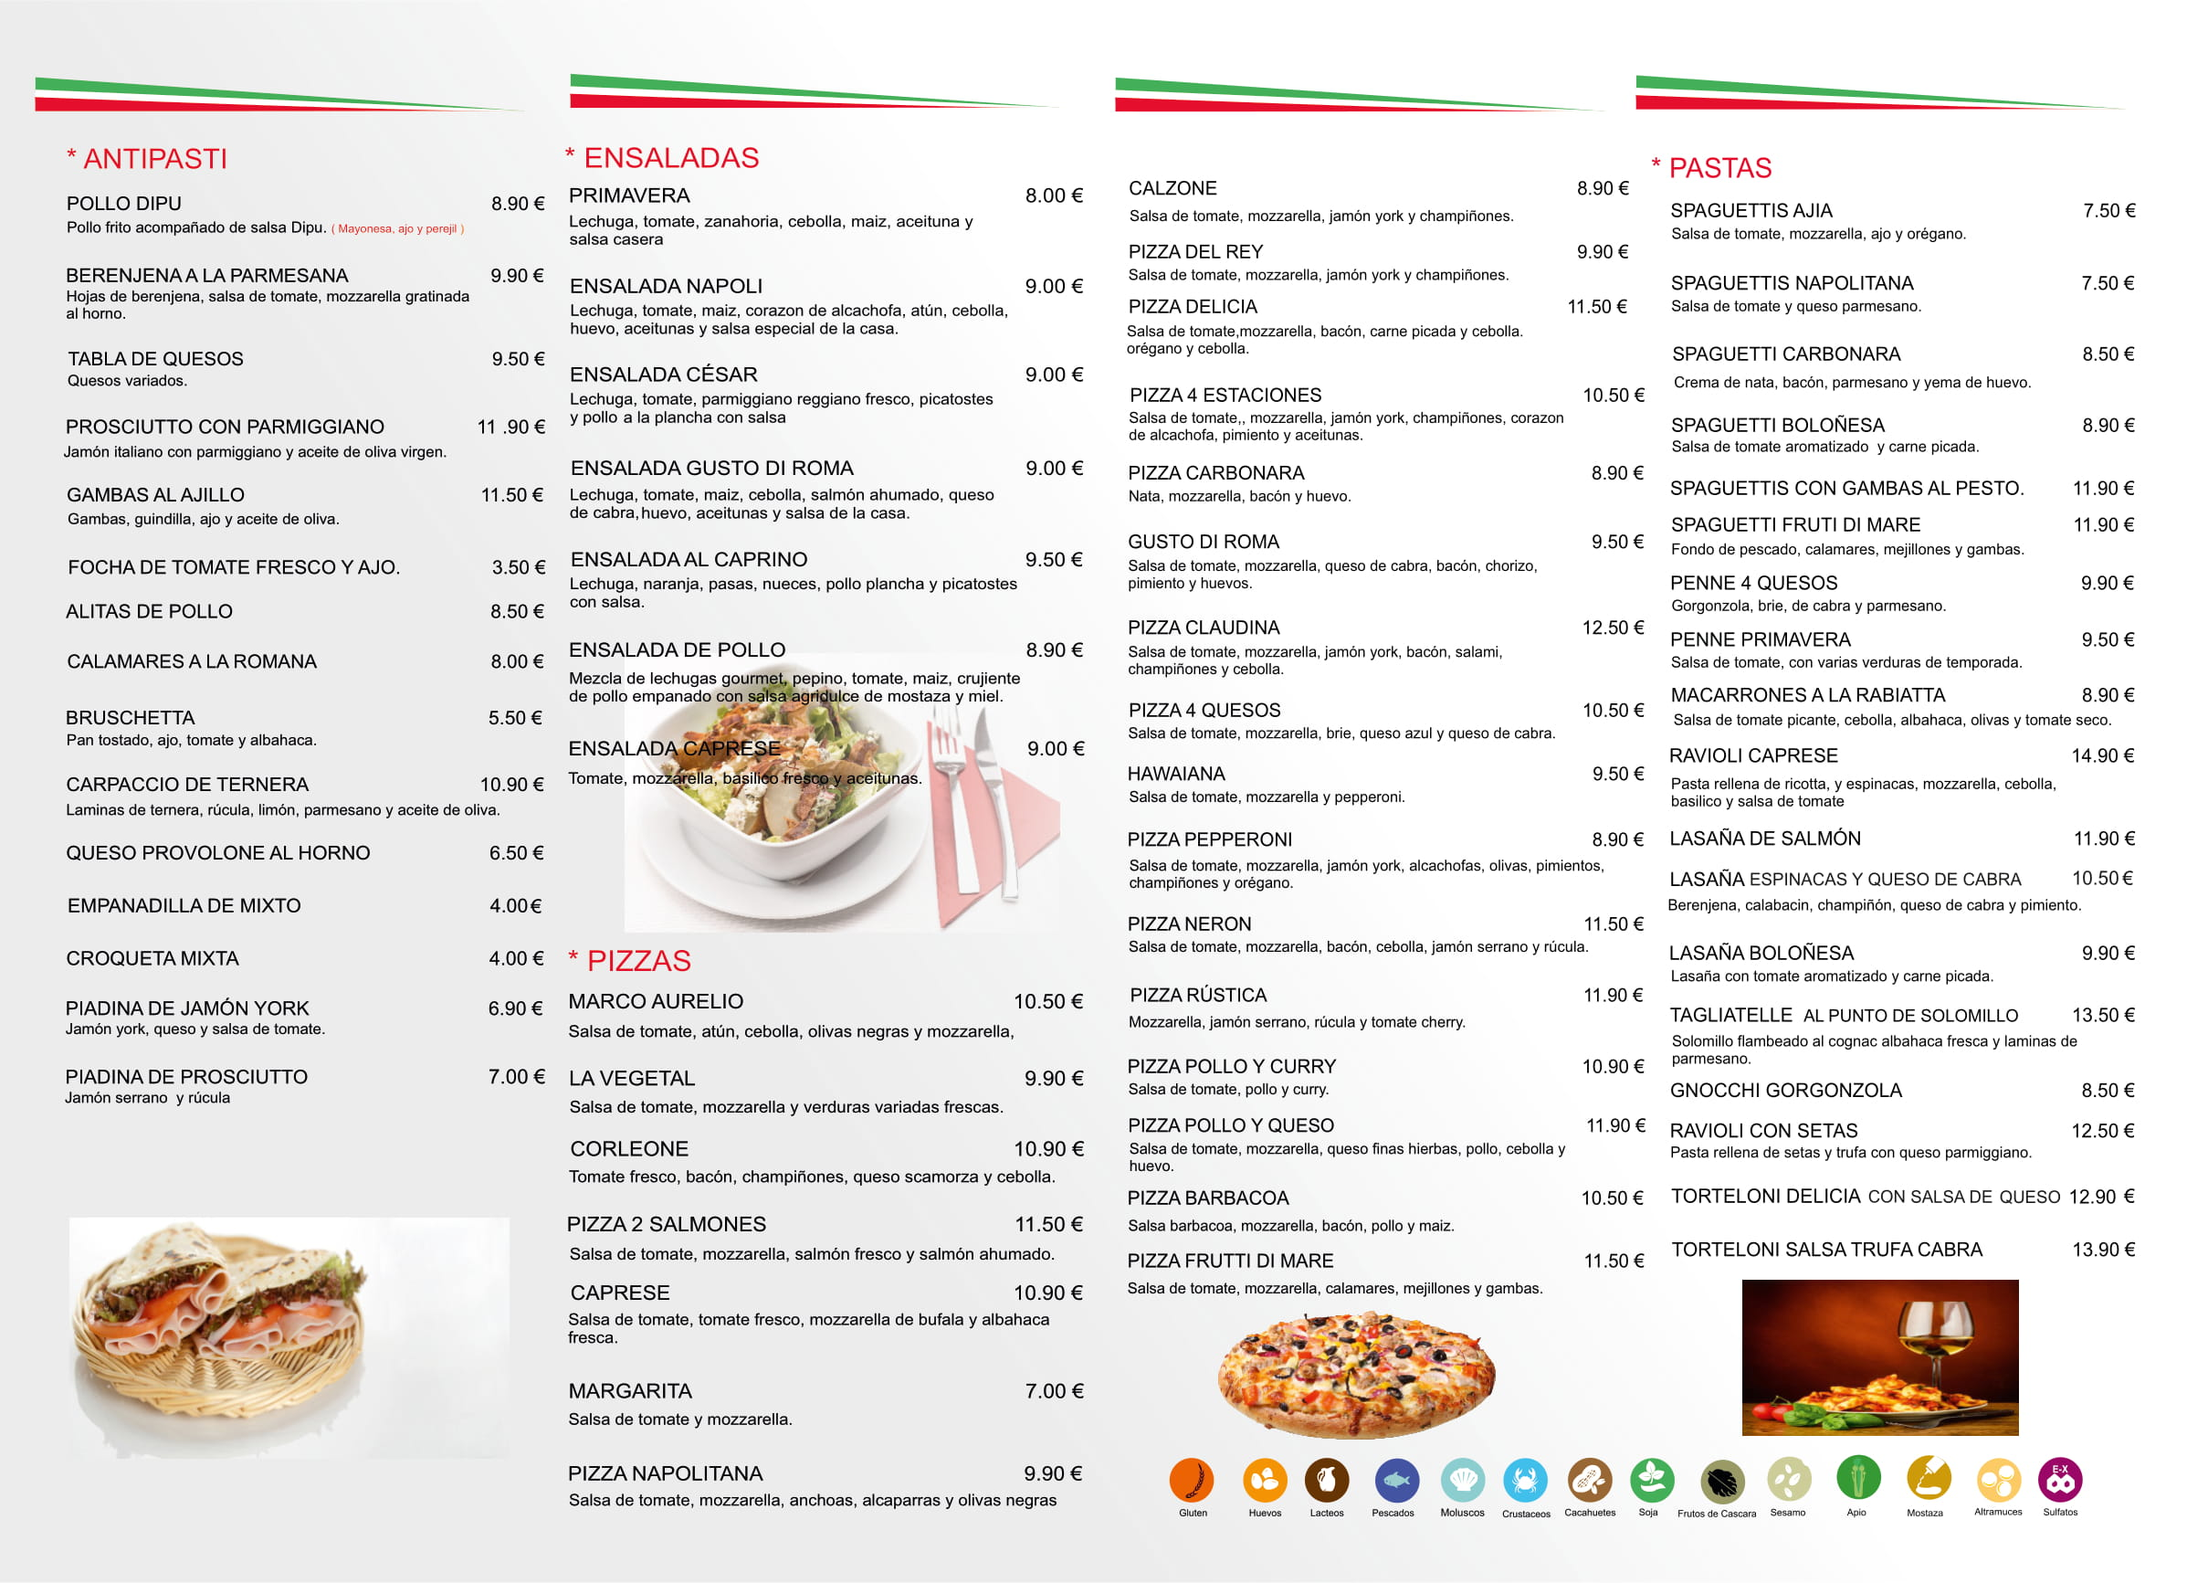
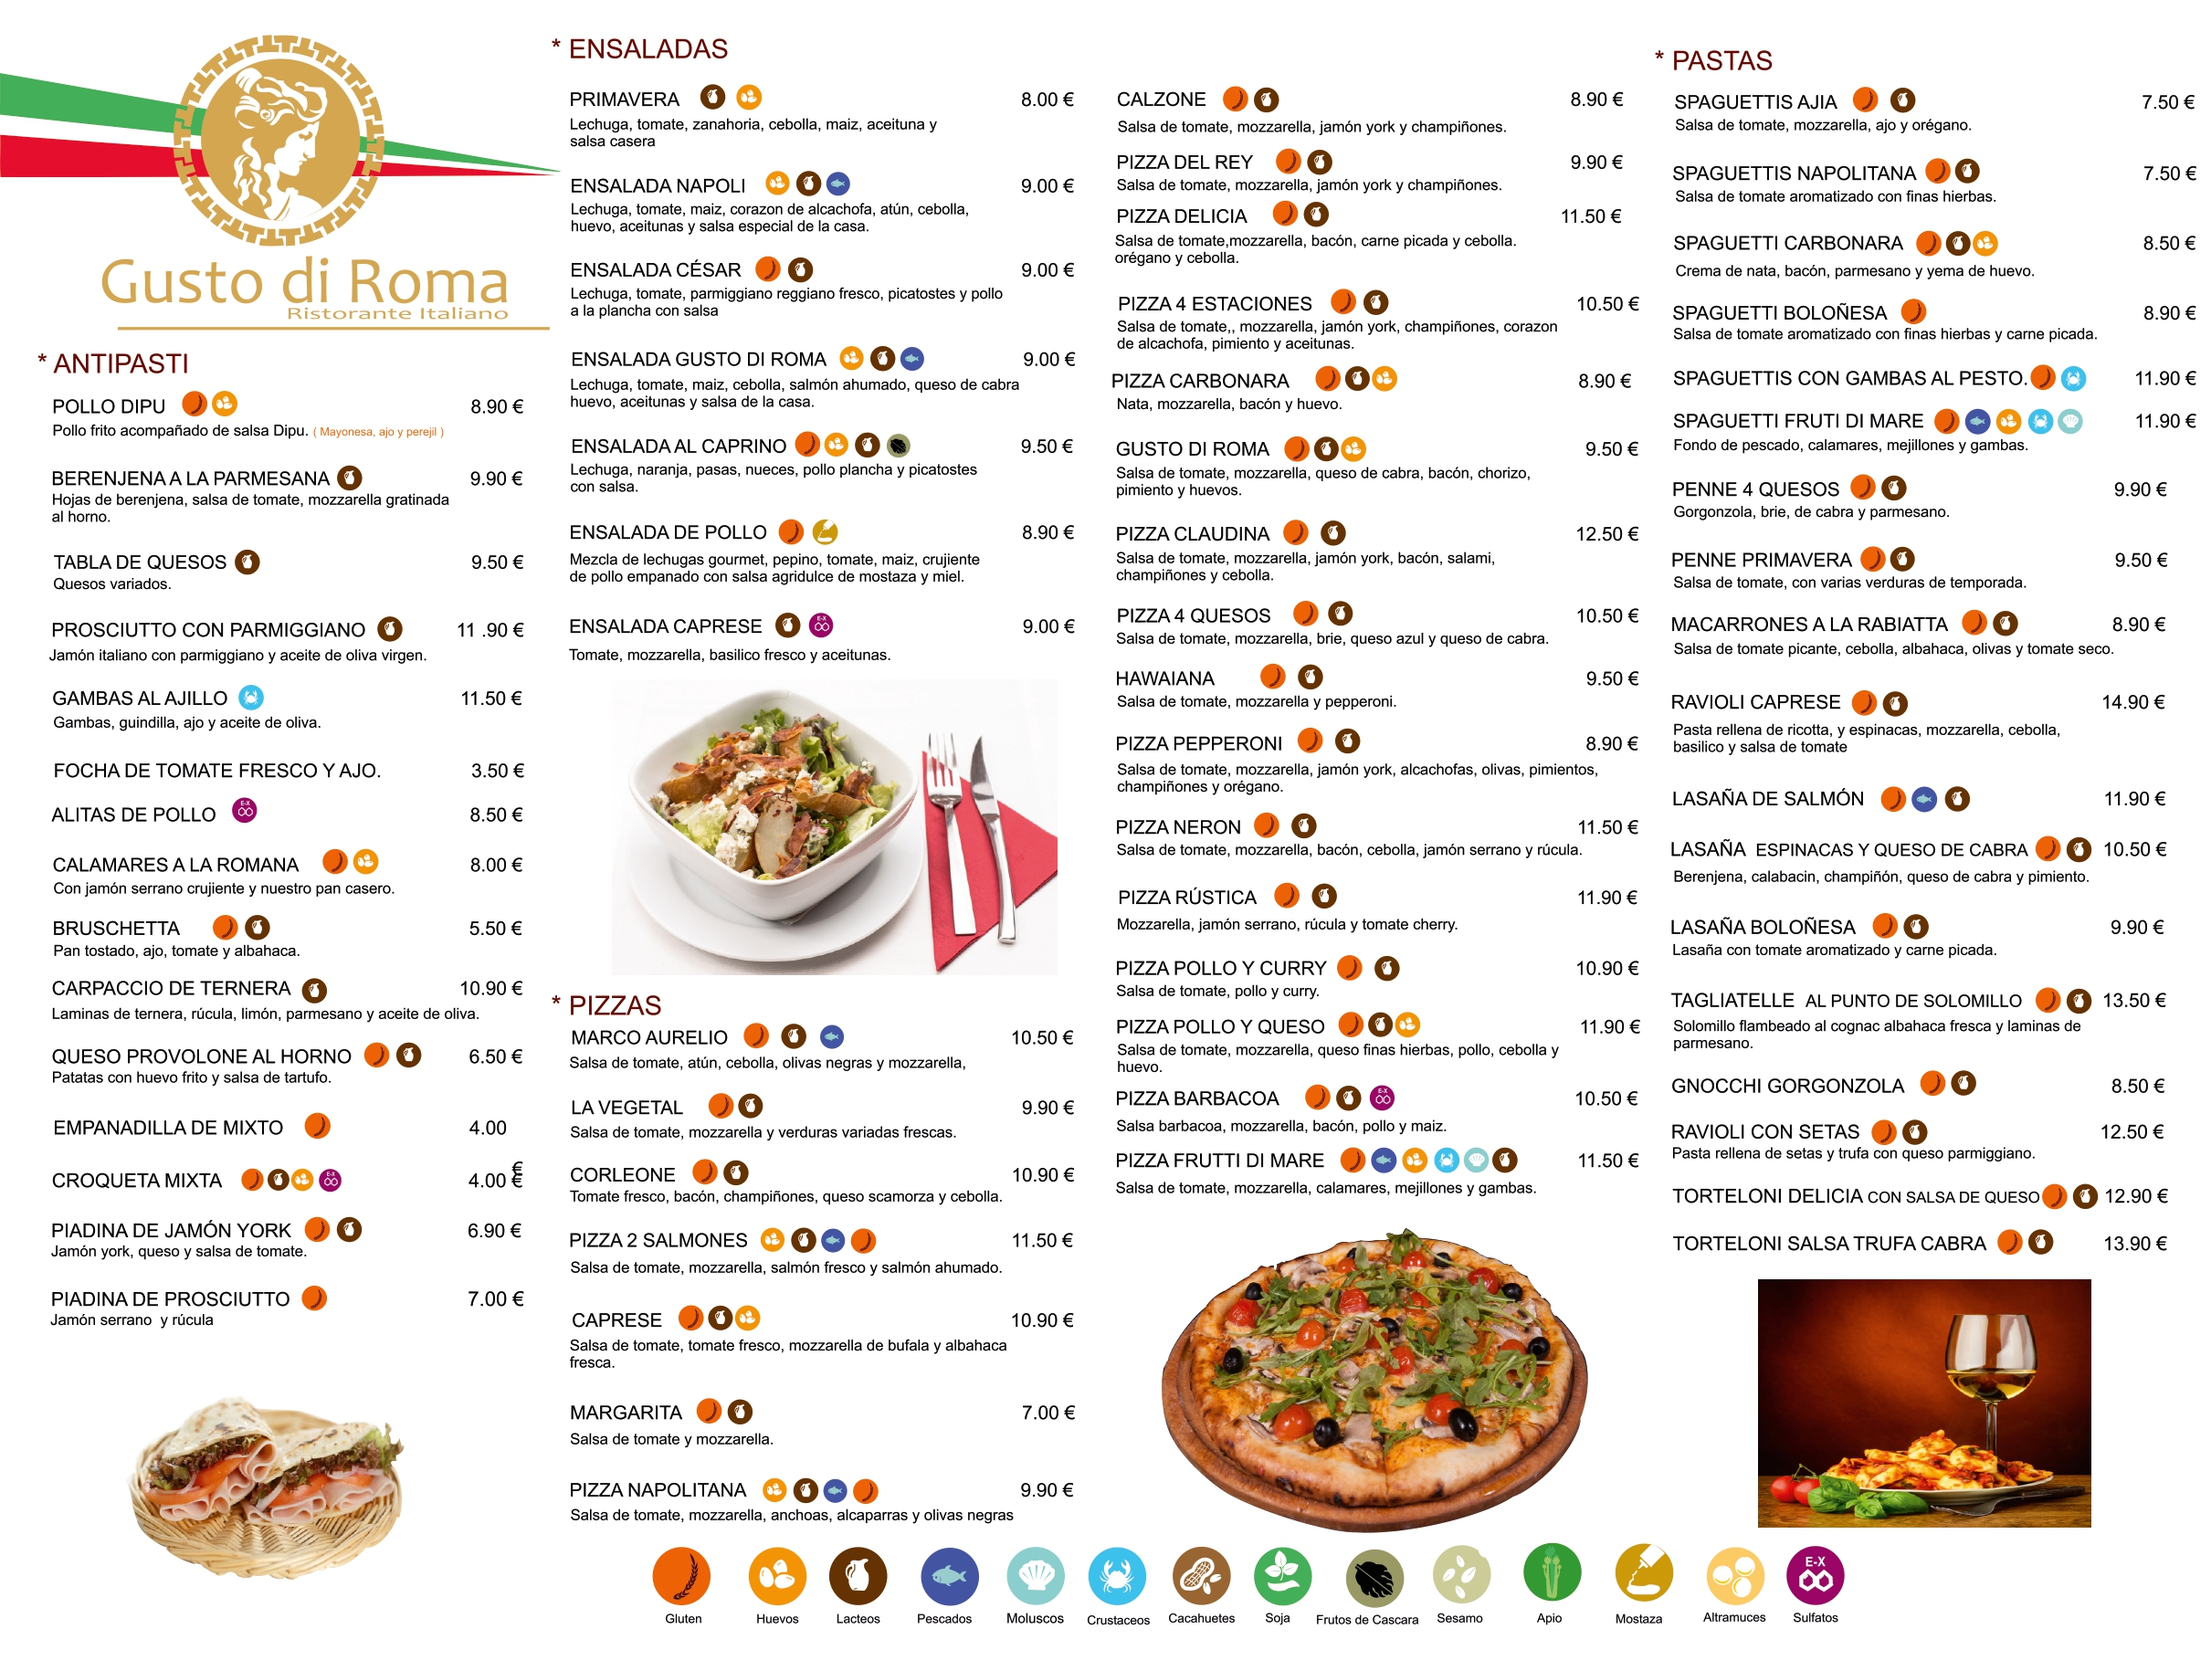
Data changes

Changed region(s): [[0.0, 0.0, 0.9926, 0.9971], [0.9615, 0.1246, 0.9926, 0.1558], [0.6514, 0.3739, 0.6824, 0.4051]]

diff --git a/news.html b/news.html
@@ -109,7 +109,6 @@
 
 
 
-<figure class="wp-block-image alignwide size-large"><img src="flyer2.jpg" alt="" class="wp-image-142" /></figure>
 	</div><!-- .entry-content -->
 
 	<footer class="entry-footer responsive-max-width">
@@ -125,8 +124,6 @@
 <p>Gusto Di Roma está a tu disposición para eventos de cualquier tamaño, reserva ahora para empezar a planearlo.</p>
 
 
-
-<p></p>
 	</div><!-- .entry-content -->
 
 	<footer class="entry-footer responsive-max-width">

diff --git a/menu.html b/menu.html
@@ -121,12 +121,10 @@
 
 <figure class="wp-block-image alignwide size-large"><img src="flyer1.jpg" alt="" class="wp-image-142" /></figure>
 
+<figure class="wp-block-image alignwide size-large"><img src="flyer3.jpg" alt="" class="wp-image-142" /></figure>
 
 <hr class="wp-block-separator" />
 
-
-
-<p style="text-align:center;" class="has-text-color has-foreground-light-color"><em></em>.</p>
 	</div><!-- .entry-content -->
 
 	</article><!-- #post-27 -->

diff --git a/index.html b/index.html
@@ -218,7 +218,7 @@
 
 
 
-<h3 class="has-text-align-center">Menú Ejemplo</h3>
+<h3 class="has-text-align-center">Sugerencia del Chef</h3>
 
 
 
